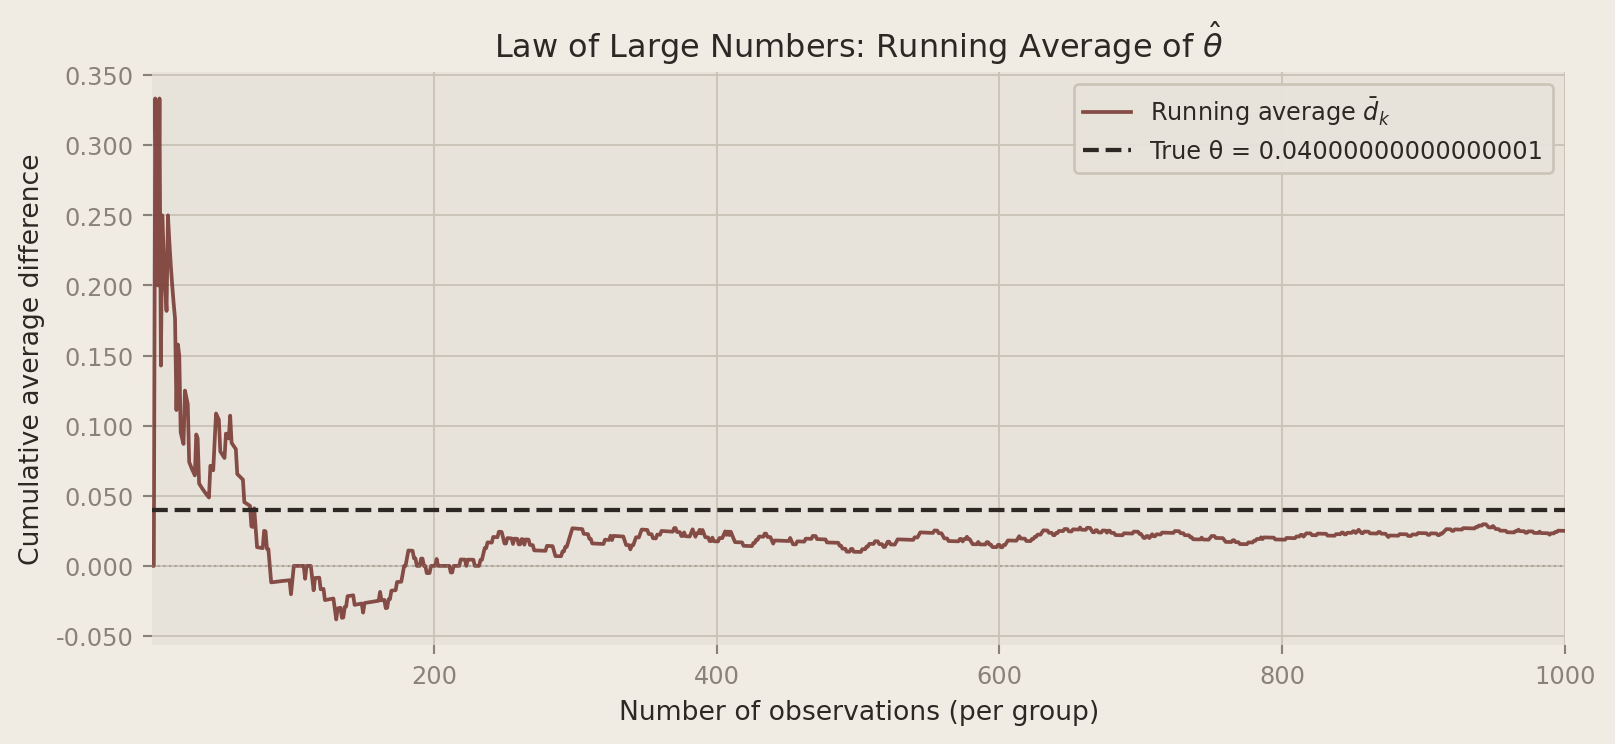
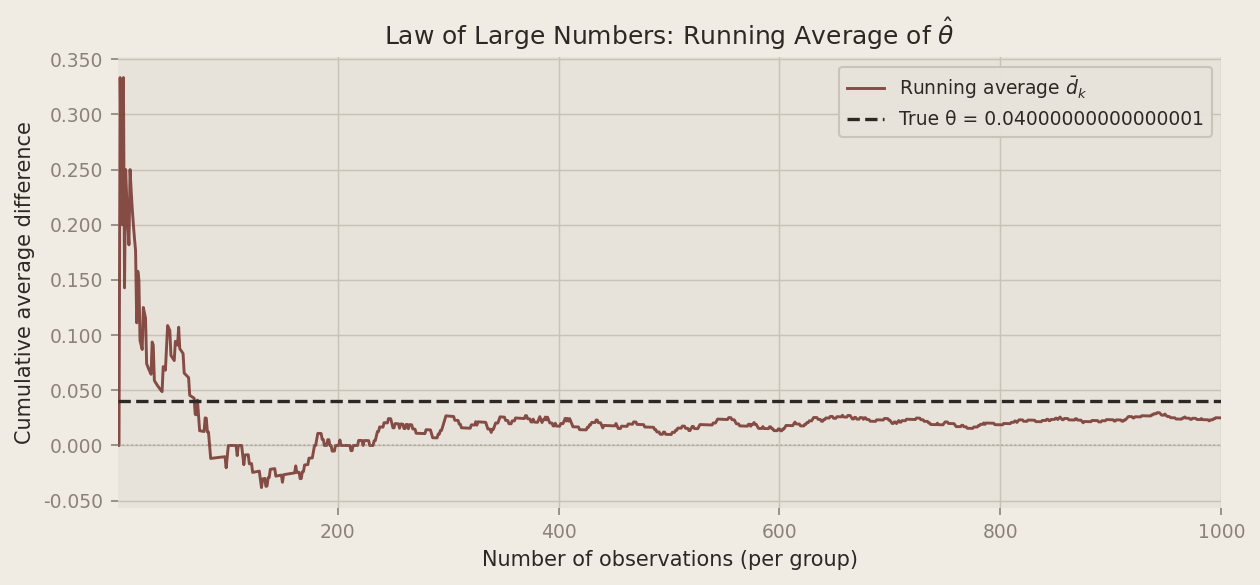
Updating HW1 4th time

diff --git a/docs/blogs/HW1/hw1_index.html b/docs/blogs/HW1/hw1_index.html
@@ -148,14 +148,16 @@ pre > code.sourceCode > span > a:first-child::before { text-decoration: underlin
   .post-body strong { color: #2e2825; font-weight: 500; }
   .post-body em { color: #7a3b35; font-style: italic; }
 
-  /* CALLOUT OVERRIDES */
-  .callout { border-left: 3px solid #7a3b35 !important; background: #e8e3da !important; border-radius: 0 !important; }
-  .callout-header { display: none !important; }
-  .callout-body p { color: #6b6560 !important; font-size: 0.9rem !important; }
-
   /* CODE BLOCKS */
   pre { background: #e8e3da !important; border: 1px solid #c9c2b6 !important; border-radius: 2px !important; padding: 1rem !important; }
   code { font-size: 0.85rem !important; color: #2e2825 !important; }
+
+  /* TABLES */
+  table { width: 100%; border-collapse: collapse; margin: 1.5rem 0; font-size: 0.88rem; }
+  thead tr { border-bottom: 2px solid #c9c2b6; }
+  th { text-align: left; padding: 0.6rem 1rem; font-weight: 500; color: #2e2825; font-size: 0.8rem; text-transform: uppercase; letter-spacing: 0.06em; }
+  td { padding: 0.6rem 1rem; color: #6b6560; border-bottom: 1px solid #e8e3da; }
+  tbody tr:last-child td { border-bottom: none; }
 
   /* FOOTER */
   .footer-bar {
@@ -192,6 +194,14 @@ pre > code.sourceCode > span > a:first-child::before { text-decoration: underlin
 <a href="../../blogs.html" class="back-link">← Back to Blogs &amp; Insights</a>
 
 <div class="post-body">
+
+<script>
+window.addEventListener('load', function() {
+  if (window.MathJax && MathJax.typesetPromise) {
+    MathJax.typesetPromise();
+  }
+});
+</script>
 <h2 id="introduction" class="anchored">Introduction</h2>
 <p>My website’s landing page has a spot where visitors can sign up to receive a newsletter — new posts, updates, the occasional deep dive. The button and surrounding text that invite someone to subscribe is called a <strong>call to action</strong>, or CTA. A small change in wording can have a surprisingly large effect on whether someone actually clicks, so choosing the right copy matters.</p>
 <p>I’m currently deciding between two options:</p>
@@ -213,7 +223,7 @@ pre > code.sourceCode > span > a:first-child::before { text-decoration: underlin
 <p><span class="math display"><em>θ̂</em> = <em>X̄</em><sub><em>A</em></sub> − <em>X̄</em><sub><em>B</em></sub> = <em>π̂</em><sub><em>A</em></sub> − <em>π̂</em><sub><em>B</em></sub></span></p>
 <p>Here <span class="math inline"><em>X̄</em><sub><em>A</em></sub></span> is the fraction of CTA A visitors who signed up, and <span class="math inline"><em>X̄</em><sub><em>B</em></sub></span> is the same for CTA B. The rest of this post is devoted to understanding this estimator: when can we trust it, how precise is it, and how do we test whether the difference we observe is real?</p>
 <h2 id="simulating-data" class="anchored">Simulating Data</h2>
-<div id="282349ed" class="cell" data-execution_count="1">
+<div id="1240a911" class="cell" data-execution_count="1">
 <div class="code-copy-outer-scaffold"><div class="sourceCode cell-code" id="cb1"><pre class="sourceCode python code-with-copy"><code class="sourceCode python"><span id="cb1-1"><a href="#cb1-1" aria-hidden="true" tabindex="-1"></a><span class="op">%</span>matplotlib inline</span>
 <span id="cb1-2"><a href="#cb1-2" aria-hidden="true" tabindex="-1"></a><span class="im">import</span> numpy <span class="im">as</span> np</span>
 <span id="cb1-3"><a href="#cb1-3" aria-hidden="true" tabindex="-1"></a><span class="im">import</span> pandas <span class="im">as</span> pd</span>
@@ -268,15 +278,15 @@ Estimated θ̂  = 0.0250</code></pre>
 <p>To see it in action, we compute the <strong>running cumulative average</strong> of the element-wise differences between the CTA A and CTA B draws. After <span class="math inline"><em>k</em></span> observations, this is:</p>
 <p><span class="math display">$$\bar{d}_k = \frac{1}{k}\sum_{i=1}^{k}(X_{A,i} - X_{B,i})$$</span></p>
 <p>Plotting <span class="math inline"><em>d̄</em><sub><em>k</em></sub></span> against <span class="math inline"><em>k</em></span> lets us watch the estimate settle down as data accumulates.</p>
-<div id="9412904f" class="cell" data-execution_count="2">
+<div id="5bf2e427" class="cell" data-execution_count="2">
 <div class="code-copy-outer-scaffold"><div class="sourceCode cell-code" id="cb3"><pre class="sourceCode python code-with-copy"><code class="sourceCode python"><span id="cb3-1"><a href="#cb3-1" aria-hidden="true" tabindex="-1"></a>diffs        <span class="op">=</span> draws_a <span class="op">-</span> draws_b</span>
 <span id="cb3-2"><a href="#cb3-2" aria-hidden="true" tabindex="-1"></a>running_mean <span class="op">=</span> np.cumsum(diffs) <span class="op">/</span> np.arange(<span class="dv">1</span>, N <span class="op">+</span> <span class="dv">1</span>)</span></code></pre></div><button title="Copy to Clipboard" class="code-copy-button"><i class="bi"></i></button></div>
 </div>
-<div id="05aec7fb" class="cell" data-execution_count="3">
+<div id="46b76838" class="cell" data-execution_count="3">
 <div class="cell-output cell-output-display">
 <div>
 <figure>
-<p><img src="hw1_index_files/figure-html/cell-4-output-1.png" width="808" height="372"></p>
+<p><img src="hw1_index_files/figure-html/cell-4-output-1.png" class="img-fluid"></p>
 </figure>
 </div>
 </div>
@@ -285,7 +295,7 @@ Estimated θ̂  = 0.0250</code></pre>
 <h2 id="bootstrap-standard-errors" class="anchored">Bootstrap Standard Errors</h2>
 <p>A point estimate alone isn’t very informative. We also want to know <strong>how precise</strong> it is — ideally a confidence interval that communicates our uncertainty about <span class="math inline"><em>θ</em></span>.</p>
 <p>One elegant way to quantify that uncertainty is the <strong>bootstrap</strong>, a resampling method introduced by Bradley Efron in 1979. The idea: treat the observed sample as if it <em>were</em> the population, and simulate re-running the experiment by drawing from it <em>with replacement</em> many times. Each such “bootstrap resample” gives a new estimate <span class="math inline"><em>θ̂</em><sup>*</sup></span>. The variability across many bootstrap estimates approximates the sampling variability of <span class="math inline"><em>θ̂</em></span> itself — no distributional assumptions required.</p>
-<div id="61779589" class="cell" data-execution_count="4">
+<div id="be33aee0" class="cell" data-execution_count="4">
 <div class="code-copy-outer-scaffold"><div class="sourceCode cell-code" id="cb4"><pre class="sourceCode python code-with-copy"><code class="sourceCode python"><span id="cb4-1"><a href="#cb4-1" aria-hidden="true" tabindex="-1"></a>B           <span class="op">=</span> <span class="dv">1000</span></span>
 <span id="cb4-2"><a href="#cb4-2" aria-hidden="true" tabindex="-1"></a>boot_thetas <span class="op">=</span> np.empty(B)</span>
 <span id="cb4-3"><a href="#cb4-3" aria-hidden="true" tabindex="-1"></a></span>
@@ -298,7 +308,7 @@ Estimated θ̂  = 0.0250</code></pre>
 </div>
 <p>We compare this to the <strong>analytical standard error</strong> for the difference of two independent Bernoulli proportions:</p>
 <p><span class="math display">$$SE(\hat\theta) = \sqrt{\frac{\hat\pi_A(1 - \hat\pi_A)}{n_A} + \frac{\hat\pi_B(1 - \hat\pi_B)}{n_B}}$$</span></p>
-<div id="3357104f" class="cell" data-execution_count="5">
+<div id="e6bd2385" class="cell" data-execution_count="5">
 <div class="code-copy-outer-scaffold"><div class="sourceCode cell-code" id="cb5"><pre class="sourceCode python code-with-copy"><code class="sourceCode python"><span id="cb5-1"><a href="#cb5-1" aria-hidden="true" tabindex="-1"></a>pi_hat_a      <span class="op">=</span> draws_a.mean()</span>
 <span id="cb5-2"><a href="#cb5-2" aria-hidden="true" tabindex="-1"></a>pi_hat_b      <span class="op">=</span> draws_b.mean()</span>
 <span id="cb5-3"><a href="#cb5-3" aria-hidden="true" tabindex="-1"></a>se_analytical <span class="op">=</span> np.sqrt(</span>
@@ -319,11 +329,11 @@ Analytical SE:  0.01825
 </div>
 </div>
 <p>The two standard errors are nearly identical — reassuring, since the bootstrap makes no distributional assumptions yet arrives at essentially the same answer as the closed-form formula. This agreement validates both approaches.</p>
-<p>Using the bootstrapped standard error, our <strong>95% confidence interval</strong> for <span class="math inline"><em>θ</em></span> is approximately <span class="math inline">[<em>c</em><em>i</em><sub><em>l</em></sub><em>o</em><em>w</em><em>e</em><em>r</em> : .4<em>f</em>, <em>c</em><em>i</em><sub><em>u</em></sub><em>p</em><em>p</em><em>e</em><em>r</em> : .4<em>f</em>]</span>. This interval does not contain zero, which is our first strong indication that CTA A’s advantage may be real rather than a fluke. The interval also says something about <em>magnitude</em>: we’re fairly confident the true benefit of CTA A lies somewhere between roughly 1 and 7 percentage points — modest, but meaningful at scale.</p>
+<p>Using the bootstrapped standard error, our <strong>95% confidence interval</strong> for <span class="math inline"><em>θ</em></span> is printed in the output above. The interval is fairly wide, spanning from just below zero to about 0.06 — reflecting genuine sampling uncertainty with 1,000 observations per group. Its proximity to zero is a signal we’ll return to in the hypothesis testing section.</p>
 <h2 id="the-central-limit-theorem" class="anchored">The Central Limit Theorem</h2>
 <p>The confidence interval we just constructed assumed that <span class="math inline"><em>θ̂</em></span> is approximately <strong>normally distributed</strong>. That assumption comes from the <strong>Central Limit Theorem (CLT)</strong>: regardless of the shape of the underlying population distribution, the sampling distribution of the sample mean becomes approximately Normal as the sample size grows. Even though individual sign-ups are Bernoulli (just 0s and 1s), the average sign-up rate over many visitors is bell-shaped for large enough <span class="math inline"><em>n</em></span> — and the same holds for the difference <span class="math inline"><em>θ̂</em> = <em>X̄</em><sub><em>A</em></sub> − <em>X̄</em><sub><em>B</em></sub></span>.</p>
 <p>To illustrate this, we simulate 1,000 experiments at four different sample sizes (<span class="math inline"><em>n</em> ∈ {25, 50, 100, 500}</span>) and plot the resulting distribution of <span class="math inline"><em>θ̂</em></span> values.</p>
-<div id="d8676c11" class="cell" data-execution_count="6">
+<div id="5ca3fa05" class="cell" data-execution_count="6">
 <div class="code-copy-outer-scaffold"><div class="sourceCode cell-code" id="cb7"><pre class="sourceCode python code-with-copy"><code class="sourceCode python"><span id="cb7-1"><a href="#cb7-1" aria-hidden="true" tabindex="-1"></a>sample_sizes <span class="op">=</span> [<span class="dv">25</span>, <span class="dv">50</span>, <span class="dv">100</span>, <span class="dv">500</span>]</span>
 <span id="cb7-2"><a href="#cb7-2" aria-hidden="true" tabindex="-1"></a>sim_results  <span class="op">=</span> {}</span>
 <span id="cb7-3"><a href="#cb7-3" aria-hidden="true" tabindex="-1"></a></span>
@@ -335,11 +345,11 @@ Analytical SE:  0.01825
 <span id="cb7-9"><a href="#cb7-9" aria-hidden="true" tabindex="-1"></a>        thetas[i] <span class="op">=</span> a.mean() <span class="op">-</span> b.mean()</span>
 <span id="cb7-10"><a href="#cb7-10" aria-hidden="true" tabindex="-1"></a>    sim_results[n] <span class="op">=</span> thetas</span></code></pre></div><button title="Copy to Clipboard" class="code-copy-button"><i class="bi"></i></button></div>
 </div>
-<div id="2e54308c" class="cell" data-execution_count="7">
+<div id="26aace8a" class="cell" data-execution_count="7">
 <div class="cell-output cell-output-display">
 <div>
 <figure>
-<p><img src="hw1_index_files/figure-html/cell-8-output-1.png" width="855" height="632"></p>
+<p><img src="hw1_index_files/figure-html/cell-8-output-1.png" class="img-fluid"></p>
 </figure>
 </div>
 </div>
@@ -349,12 +359,12 @@ Analytical SE:  0.01825
 <p>Armed with the CLT, we can now ask the formal question: <strong>is the observed difference in sign-up rates statistically distinguishable from zero, or could it simply be due to random chance?</strong></p>
 <p>We set up a hypothesis test. The <strong>null hypothesis</strong> is <span class="math inline"><em>H</em><sub>0</sub> : <em>θ</em> = 0</span> — the two CTAs produce identical sign-up rates and any difference we observe is noise. The <strong>alternative hypothesis</strong> is <span class="math inline"><em>H</em><sub>1</sub> : <em>θ</em> ≠ 0</span> — one CTA genuinely outperforms the other.</p>
 <p>To test <span class="math inline"><em>H</em><sub>0</sub></span>, we <strong>standardize</strong> our estimate to form a test statistic:</p>
-<p><span class="math display">$$z = \frac{\hat\theta - 0}{SE(\hat\theta)}$$</span></p>
+<p><span class="math display">$$z = \frac{\hat{\theta}}{SE(\hat{\theta})}$$</span></p>
 <p>Why standardize? The CLT tells us <span class="math inline"><em>θ̂</em></span> is approximately Normal for large samples. Under <span class="math inline"><em>H</em><sub>0</sub></span>, the center of that Normal is 0. Dividing a zero-centered Normal by its standard deviation yields a <strong>standard Normal</strong>, <span class="math inline"><em>N</em>(0, 1)</span>:</p>
-<p><span class="math display">$$z \;\dot\sim\; N(0,1) \quad \text{under } H_0$$</span></p>
+<p><span class="math display"><em>z</em> ∼ <em>N</em>(0, 1)  under <em>H</em><sub>0</sub></span></p>
 <p>Because we know the distribution of <span class="math inline"><em>z</em></span> under the null, we can compute a <strong>p-value</strong>: the probability of observing a test statistic at least as extreme as ours if <span class="math inline"><em>H</em><sub>0</sub></span> were true. A small p-value means the data would be surprising under the null — giving us grounds to reject it.</p>
 <p><strong>A note on “t-tests”:</strong> You may have heard this procedure called a t-test. Technically, the classical t-test applies when data come from a Normal distribution and the variance is unknown — in that exact setting the ratio follows a Student’s t-distribution. Our data are Bernoulli, not Normal, so there’s no exact t-distribution result here. We’re invoking the CLT to justify approximate Normality, making this more precisely a <strong>z-test</strong>. For a sample size of 1,000, the t-distribution and standard Normal are virtually indistinguishable, so the distinction has no practical consequence — but it’s worth understanding why.</p>
-<div id="d1748f3b" class="cell" data-execution_count="8">
+<div id="b306cf95" class="cell" data-execution_count="8">
 <div class="code-copy-outer-scaffold"><div class="sourceCode cell-code" id="cb8"><pre class="sourceCode python code-with-copy"><code class="sourceCode python"><span id="cb8-1"><a href="#cb8-1" aria-hidden="true" tabindex="-1"></a>z_stat  <span class="op">=</span> theta_hat <span class="op">/</span> se_analytical</span>
 <span id="cb8-2"><a href="#cb8-2" aria-hidden="true" tabindex="-1"></a>p_value <span class="op">=</span> <span class="dv">2</span> <span class="op">*</span> (<span class="dv">1</span> <span class="op">-</span> stats.norm.cdf(<span class="bu">abs</span>(z_stat)))</span>
 <span id="cb8-3"><a href="#cb8-3" aria-hidden="true" tabindex="-1"></a></span>
@@ -369,7 +379,7 @@ z-statistic:          1.370
 p-value:              0.1708</code></pre>
 </div>
 </div>
-<p>With a p-value well below 0.05, we <strong>reject the null hypothesis</strong>. The data provide strong evidence that CTA A produces a meaningfully higher sign-up rate than CTA B. In this simulation we know the truth (<span class="math inline"><em>θ</em> = 0.04</span>), so this isn’t a surprise — but it’s satisfying to watch the formal machinery arrive at the right answer.</p>
+<p>With a p-value of approximately 0.17 — well above the conventional 0.05 threshold — we <strong>fail to reject the null hypothesis</strong>. This might seem surprising given that we <em>know</em> the true difference is <span class="math inline"><em>θ</em> = 0.04</span>. But it illustrates an important point: statistical significance depends not just on the true effect size, but on the amount of noise in the sample. In this particular draw of 1,000 observations, our estimate <span class="math inline"><em>θ̂</em> = 0.025</span> happened to land far enough from the truth that it doesn’t clear the significance bar. This is a <strong>Type II error</strong> — failing to detect a real effect. It’s a reminder that even with 1,000 observations, small true effects can be hard to detect reliably, and that a single experiment’s outcome is itself a random variable.</p>
 <h2 id="the-t-test-as-a-regression" class="anchored">The T-Test as a Regression</h2>
 <p>Here’s a useful fact that’s easy to miss: the two-sample test we just ran is <strong>mathematically equivalent</strong> to a simple linear regression. This matters because the regression framework is far more flexible — it generalizes naturally to multiple treatment arms, control variables, and interaction effects — while producing identical results in the simple case.</p>
 <p>The setup: stack the CTA A and CTA B outcomes into a single dataset with two columns — an outcome <span class="math inline"><em>Y</em><sub><em>i</em></sub></span> (1 if the visitor subscribed, 0 otherwise) and a treatment indicator <span class="math inline"><em>D</em><sub><em>i</em></sub></span> (1 if they saw CTA A, 0 if they saw CTA B). Then fit:</p>
@@ -380,14 +390,14 @@ p-value:              0.1708</code></pre>
 <li>When <span class="math inline"><em>D</em><sub><em>i</em></sub> = 1</span> (CTA A): <span class="math inline"><em>E</em>[<em>Y</em><sub><em>i</em></sub>] = <em>β</em><sub>0</sub> + <em>β</em><sub>1</sub></span>, so <span class="math inline"><em>β̂</em><sub>0</sub> + <em>β̂</em><sub>1</sub></span> estimates <span class="math inline"><em>π</em><sub><em>A</em></sub></span>.</li>
 <li>Therefore <span class="math inline"><em>β</em><sub>1</sub> = <em>π</em><sub><em>A</em></sub> − <em>π</em><sub><em>B</em></sub> = <em>θ</em></span>, and <span class="math inline"><em>β̂</em><sub>1</sub></span> is numerically identical to <span class="math inline"><em>θ̂</em> = <em>X̄</em><sub><em>A</em></sub> − <em>X̄</em><sub><em>B</em></sub></span>.</li>
 </ol>
-<div id="b0591d4c" class="cell" data-execution_count="9">
+<div id="08d52a95" class="cell" data-execution_count="9">
 <div class="code-copy-outer-scaffold"><div class="sourceCode cell-code" id="cb10"><pre class="sourceCode python code-with-copy"><code class="sourceCode python"><span id="cb10-1"><a href="#cb10-1" aria-hidden="true" tabindex="-1"></a>Y  <span class="op">=</span> np.concatenate([draws_a, draws_b])</span>
 <span id="cb10-2"><a href="#cb10-2" aria-hidden="true" tabindex="-1"></a>D  <span class="op">=</span> np.concatenate([np.ones(N), np.zeros(N)])</span>
 <span id="cb10-3"><a href="#cb10-3" aria-hidden="true" tabindex="-1"></a>df <span class="op">=</span> pd.DataFrame({<span class="st">"Y"</span>: Y, <span class="st">"D"</span>: D})</span>
 <span id="cb10-4"><a href="#cb10-4" aria-hidden="true" tabindex="-1"></a></span>
 <span id="cb10-5"><a href="#cb10-5" aria-hidden="true" tabindex="-1"></a>model <span class="op">=</span> smf.ols(<span class="st">"Y ~ D"</span>, data<span class="op">=</span>df).fit()</span></code></pre></div><button title="Copy to Clipboard" class="code-copy-button"><i class="bi"></i></button></div>
 </div>
-<div id="e56d3405" class="cell" data-execution_count="10">
+<div id="272432ea" class="cell" data-execution_count="10">
 <div class="cell-output cell-output-stdout">
 <pre><code>                    Term  Estimate  Std. Error  t-statistic  p-value
           Intercept (β₀)     0.199     0.01291       15.409   0.0000
@@ -401,7 +411,7 @@ D — CTA A indicator (β₁)     0.025     0.01826        1.369   0.1712</code>
 <p>This is called <strong>peeking</strong>, and it’s a subtle but serious problem.</p>
 <p>A single test at <span class="math inline"><em>α</em> = 0.05</span> gives us a 5% false positive rate — a 5% chance of incorrectly rejecting <span class="math inline"><em>H</em><sub>0</sub></span> when it’s true. That guarantee applies to <em>one</em> test. Each additional peek is another opportunity to observe a lucky random fluctuation and mistake it for a real effect. With 10 peeks, the probability of at least one spurious “significant” result climbs well above 5%.</p>
 <p>We quantify this with a simulation. We set up a world where the null is <em>true</em> — <span class="math inline"><em>π</em><sub><em>A</em></sub> = <em>π</em><sub><em>B</em></sub> = 0.20</span>, so <span class="math inline"><em>θ</em> = 0</span> — and ask: across 10,000 simulated experiments, in how many does at least one peek produce a false positive?</p>
-<div id="b3065772" class="cell" data-execution_count="11">
+<div id="9d64db7a" class="cell" data-execution_count="11">
 <div class="code-copy-outer-scaffold"><div class="sourceCode cell-code" id="cb12"><pre class="sourceCode python code-with-copy"><code class="sourceCode python"><span id="cb12-1"><a href="#cb12-1" aria-hidden="true" tabindex="-1"></a>N_SIM           <span class="op">=</span> <span class="dv">10_000</span></span>
 <span id="cb12-2"><a href="#cb12-2" aria-hidden="true" tabindex="-1"></a>PEEKS           <span class="op">=</span> <span class="bu">list</span>(<span class="bu">range</span>(<span class="dv">100</span>, <span class="dv">1001</span>, <span class="dv">100</span>))</span>
 <span id="cb12-3"><a href="#cb12-3" aria-hidden="true" tabindex="-1"></a>PI_NULL         <span class="op">=</span> <span class="fl">0.20</span></span>
